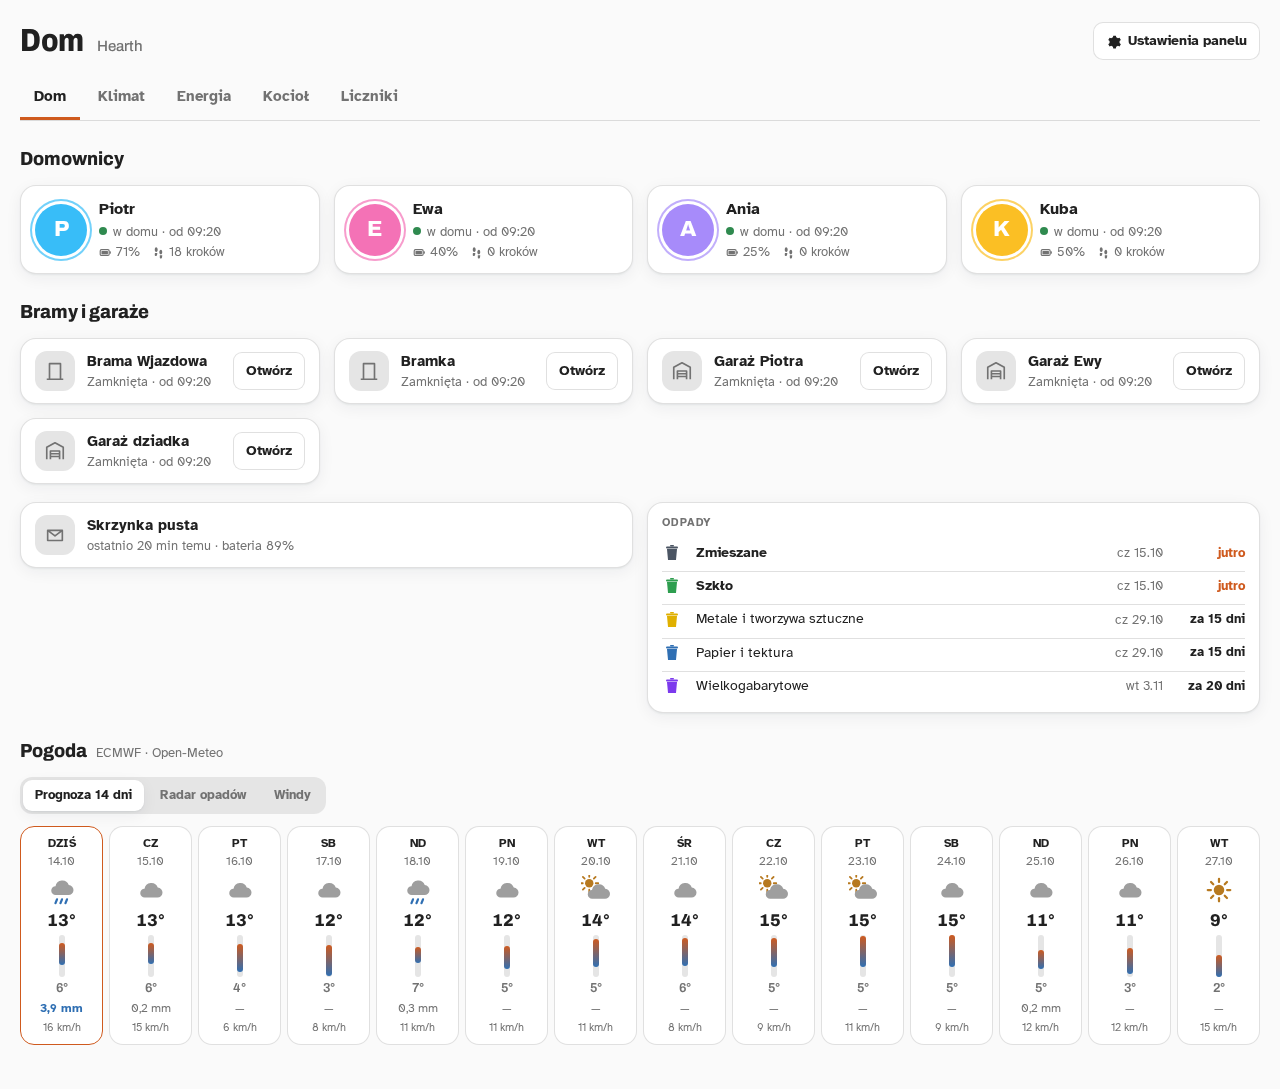
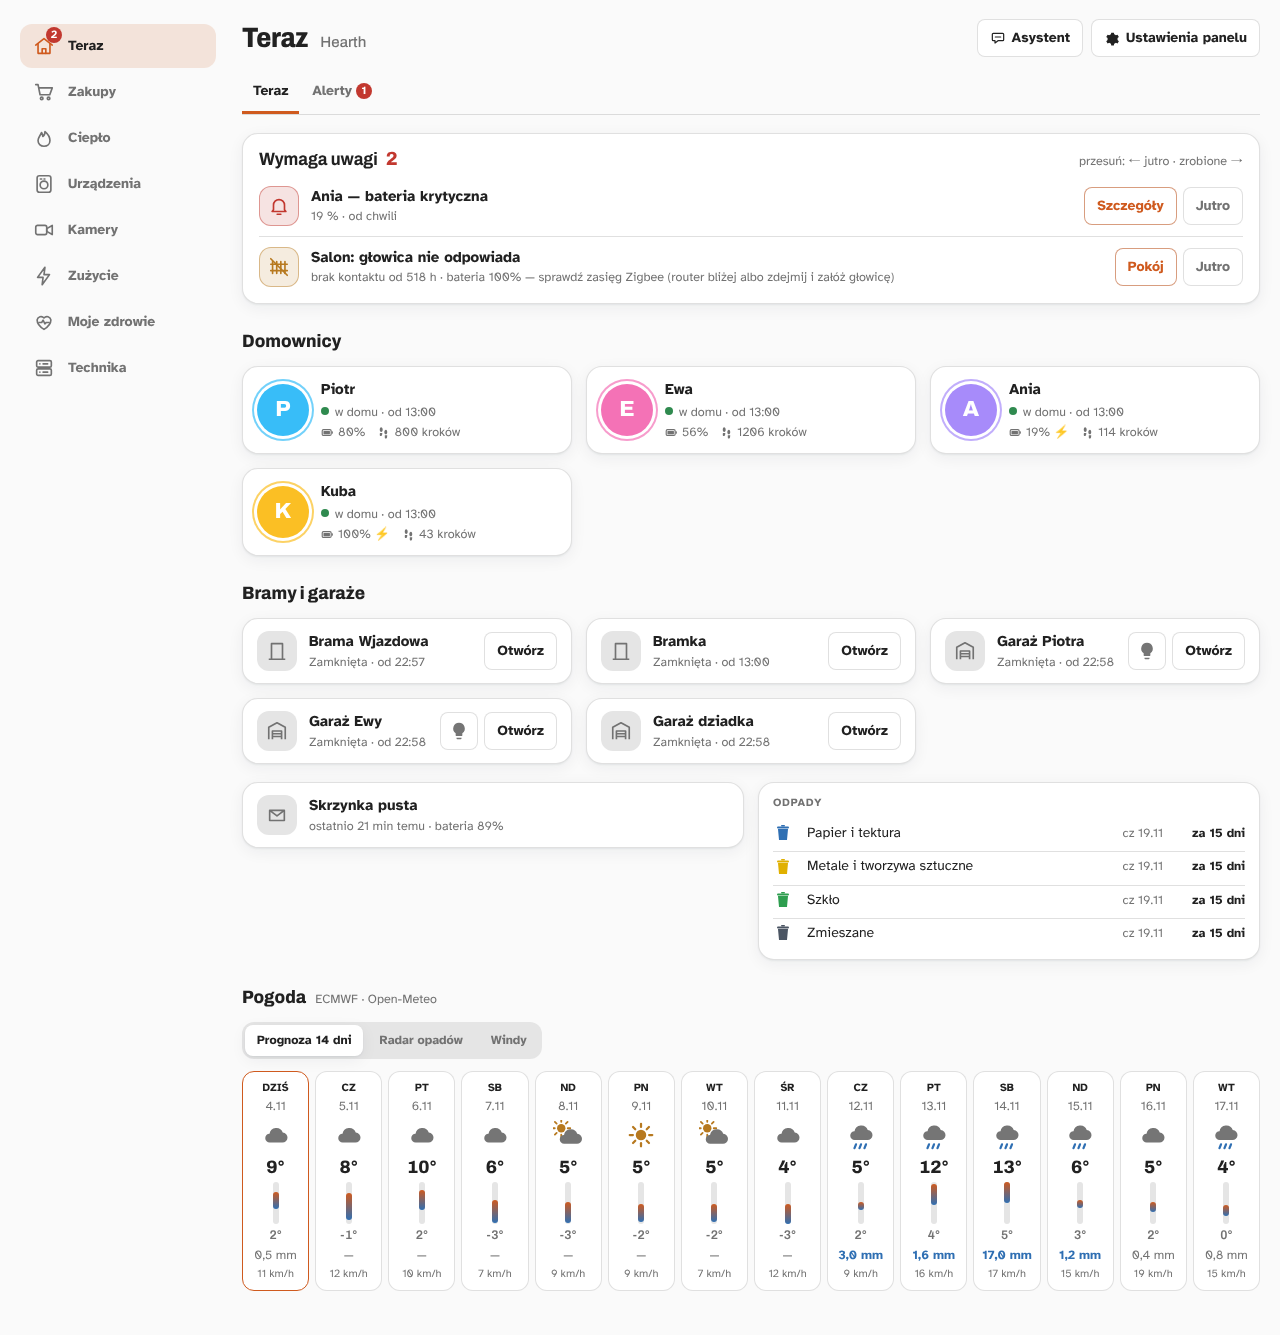
Wydanie 0.21.0: nowy układ i wygląd panelu (8 sekcji, Neon, Żywy dom, Wymaga uwagi, profil Dziecko, przesyłki)
Zbiorcza sekcja CHANGELOG dla bet 0.21.0-beta.1…25, nowe zrzuty README
(w tym Neon i telefon, dane zastępcze), wersja 0.21.0 w manifest.json i package.json.

diff --git a/CHANGELOG.md b/CHANGELOG.md
@@ -7,6 +7,39 @@ projekt stosuje [wersjonowanie semantyczne](https://semver.org/lang/pl/).
 
 ## [Unreleased]
 
+## [0.21.0] - 2026-11-04
+
+Nowy układ i wygląd panelu — zbiorcze podsumowanie bet 0.21.0-beta.1…25 (szczegóły w ich sekcjach niżej).
+Po aktualizacji uruchom ponownie Home Assistanta i odśwież panel w przeglądarce.
+
+### Dodano
+- **Wygląd Neon** (opcja *Wygląd*, domyślnie *Klasyczny*) — ciemne szkło, świecące kolory i żywe niebo w tle: pora dnia ze słońca (`sun.sun`) i pogoda z encji pogody albo z Open-Meteo. Wygląd i efekty ruchu można wybrać osobno na każdym urządzeniu (*Ustawienia panelu*); systemowe „ogranicz ruch” zawsze wyłącza animacje.
+- **Żywy dom** na *Teraz* (Neon) — przekrój domu z pięter i obszarów HA: temperatura pokoi kolorem, światło w oknach, grzanie, otwarte okna, praca kotła, pobór prądu, garaże ze światłem i domownicy; strych w dachu, piwnica pod ziemią, kliknięcie pokoju otwiera jego ustawienia.
+- **Wymaga uwagi** (oba wyglądy) — jedno miejsce na sprawy od najpilniejszych: alerty, otwarte bramy, okna otwarte przy grzaniu, głowice bez kontaktu (z radą: baterie albo zasięg Zigbee), odpady, poczta, koniec prania, suszenia i zmywania, kupony kończące się dziś, przesyłki do odbioru. Akcja jednym dotknięciem, *Jutro*, przesunięcie palcem.
+- **Przesyłki** (integracja Polish Shipment Tracking, wykrywana sama) — *Zakupy → Przesyłki* z kodami odbioru, odświeżaniem, ukrywaniem i śledzeniem po numerze; kafelek na *Teraz*.
+- **Profil Dziecko** (opcja *Dzieci*) — sekcje Teraz, Zakupy (sama lista), *Mój pokój* (obszary z etykietą o imieniu dziecka), *Światła* i Moje zdrowie; temperaturę zmienia tylko chwilowo.
+- **Temperatura chwilowa** — − / + na karcie pokoju zmienia cel na 2 h, z *na stałe* i *wróć do programu* (pomocniki `input_number.<pokój>_chwilowa` i `input_datetime.<pokój>_chwilowa_do`).
+- **Ciepło** — pokój jako świecący pierścień (Neon), „osiągnie cel ok. HH:MM”, pokoje w grupach według pięter, na telefonie szczegóły pokoju w arkuszu od dołu.
+- **Zużycie → Prąd** — strefy taryfy na dziś z odpowiedzią „taniej od HH:00” (atrybuty `plan_dzis`, `plan_jutro`, `ceny_dzis`, `ceny_jutro` w sensorze strefy) i zużycie dziś godzina po godzinie w kolorach stref.
+- **Klasy ryzyka akcji** — od razu (światła), z „Cofnij” (gniazdka), z przytrzymaniem 0,9 s (AGD, auta, kocioł, lodówki, pracujące pralki, zamek auta, brama poza domem), tylko administrator (infrastruktura sieci i serwera).
+- **Zakupy** — strony *Kupony* i *Paragony* z przełącznikiem konta, „Pokaż kartę” w nagłówku.
+- **Mikroanimacje** (Neon z efektami) — wejście kart, przewijane liczby, „Wszystko ogarnięte!”.
+
+### Zmieniono
+- **Nawigacja w 8 sekcjach zamiast 16 zakładek** — Teraz, Zakupy, Ciepło, Urządzenia, Kamery, Zużycie, Moje zdrowie, Technika (tylko administrator); na komputerze kolumna po lewej, na telefonie dolny pasek. Adresy `/hearth/<zakładka>` działają jak dotąd. Agent jako przycisk *Asystent* w nagłówku.
+- **Kocioł w trzech stronach** — *Kocioł i ciepła woda* dla wszystkich, *Program tygodnia* i *Serwis* dla administratora; **gaz w Zużyciu** (*Zużycie → Gaz*).
+- **Zdrowie według konta** — administrator widzi wszystkich, dorosły siebie i dzieci, dziecko tylko siebie.
+- **Zakupy: lista Bring! na początku**, karty przy kasie pod nią.
+- **Czcionki dołączone do integracji** zamiast Google Fonts — działają bez internetu.
+- **Jedna skala typografii i zaokrągleń, kontrast WCAG AA** w wyglądzie klasycznym.
+- README: nowe zrzuty ekranu, także wyglądu Neon i telefonu.
+
+### Bezpieczeństwo
+- **Adres Asystenta i osoby Zdrowia poza konfiguracją panelu**, którą HA wysyła każdemu kontu — panel pobiera je z `/api/hearth/me`, gdzie integracja sprawdza rolę konta (także „Użytkownicy bez dostępu”).
+
+### Naprawiono
+- Paski bilansów w Zdrowiu, ikony rysujące tylko pierwszy kształt, różne kolory stref na pasku i wykresach, lampki w sprzętach zapalające okno w Żywym domu, nachodzące na siebie długie nazwy pomieszczeń.
+
 ## [0.21.0-beta.25] - 2026-11-04
 
 ### Zmieniono

diff --git a/README.md b/README.md
@@ -36,11 +36,11 @@
 | 📟 **Liczniki** | Dowolne encje pogrupowane według urządzeń (licznik, sprzedawca, zmiękczacz, zmywarka…) · liczniki narastające z zużyciem dziś i w miesiącu · pomiary z wykresem 24 h · stany drzwi, soli i daty po polsku |
 
 <table><tr>
-<td><img src="assets/dom.png" alt="Dom"/></td>
-<td><img src="assets/energia.png" alt="Energia"/></td>
+<td><img src="assets/dom.png" alt="Teraz — Wymaga uwagi, domownicy, bramy, pogoda"/></td>
+<td><img src="assets/energia.png" alt="Zużycie — prąd"/></td>
 </tr><tr>
-<td><img src="assets/kociol.png" alt="Kocioł"/></td>
-<td><img src="assets/liczniki.png" alt="Liczniki"/></td>
+<td><img src="assets/kociol.png" alt="Ciepło — kocioł i ciepła woda"/></td>
+<td><img src="assets/liczniki.png" alt="Zużycie — liczniki"/></td>
 </tr><tr>
 <td><img src="assets/zdrowie.png" alt="Zdrowie — waga"/></td>
 <td><img src="assets/zdrowie-cisnienie.png" alt="Zdrowie — ciśnienie"/></td>
@@ -56,6 +56,11 @@ Panel ma **8 sekcji**: Teraz, Zakupy, Ciepło, Urządzenia, Kamery, Zużycie, Mo
 **Wygląd Neon** (opcja *Wygląd*, domyślnie *Klasyczny*): ciemne szkło, świecące kolory i nocne niebo z gwiazdami i zorzą w tle, na wszystkich zakładkach. Każde urządzenie może wybrać inny wygląd w **Ustawieniach panelu**, a przy neonie także efekty ruchu: automatycznie (pełne na dużym ekranie, spokojnie na telefonie), pełne albo spokojnie. Przy systemowym „ogranicz ruch” animacje są zawsze wyłączone.
 
 W wyglądzie Neon tło to **żywe niebo**: noc z gwiazdami i zorzą, świt i zmierzch, dzień (ze słońca `sun.sun`) oraz pogoda — deszcz, ulewa, burza, śnieg, mgła, chmury — z encji pogody z opcji, a bez niej z bieżących warunków Open-Meteo; ruch tylko z włączonymi efektami. Zakładka Dom zaczyna się od **Żywego domu**: przekroju domu z pięter i obszarów HA, w którym widać temperaturę pokoi (kolor), światło w oknach, grzanie, otwarte okna, pracę kotła (dym z komina), pobór prądu, garaże i domowników. Pod nim (w obu wyglądach) lista **Wymaga uwagi**: alerty, otwarte bramy i okna przy grzaniu, głowice bez kontaktu, odpady i poczta — z akcją w jednym dotknięciu i odkładaniem do jutra. Bez pięter w HA dom pokazuje pokoje z ogrzewaniem na jednej kondygnacji — pełny układ pojawi się po przypisaniu obszarów do pięter (Ustawienia → Obszary, etykiety i strefy).
+
+<table><tr>
+<td><img src="assets/neon-dom.png" alt="Wygląd Neon — Żywy dom i Wymaga uwagi"/></td>
+<td width="260"><img src="assets/neon-telefon.png" alt="Wygląd Neon na telefonie — pokoje jako pierścienie"/></td>
+</tr></table>
 
 | Kafelki (domyślny) | Lista | Pokrętła |
 |---|---|---|
